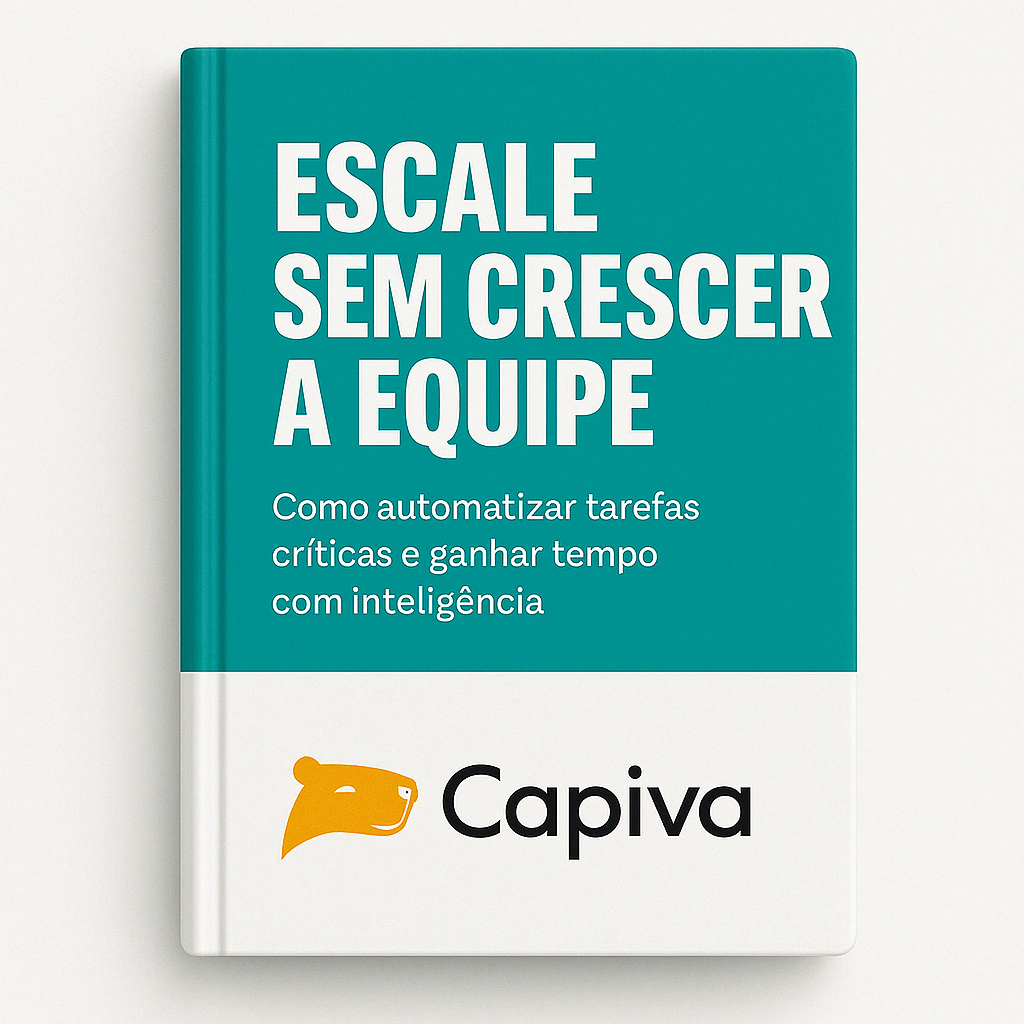
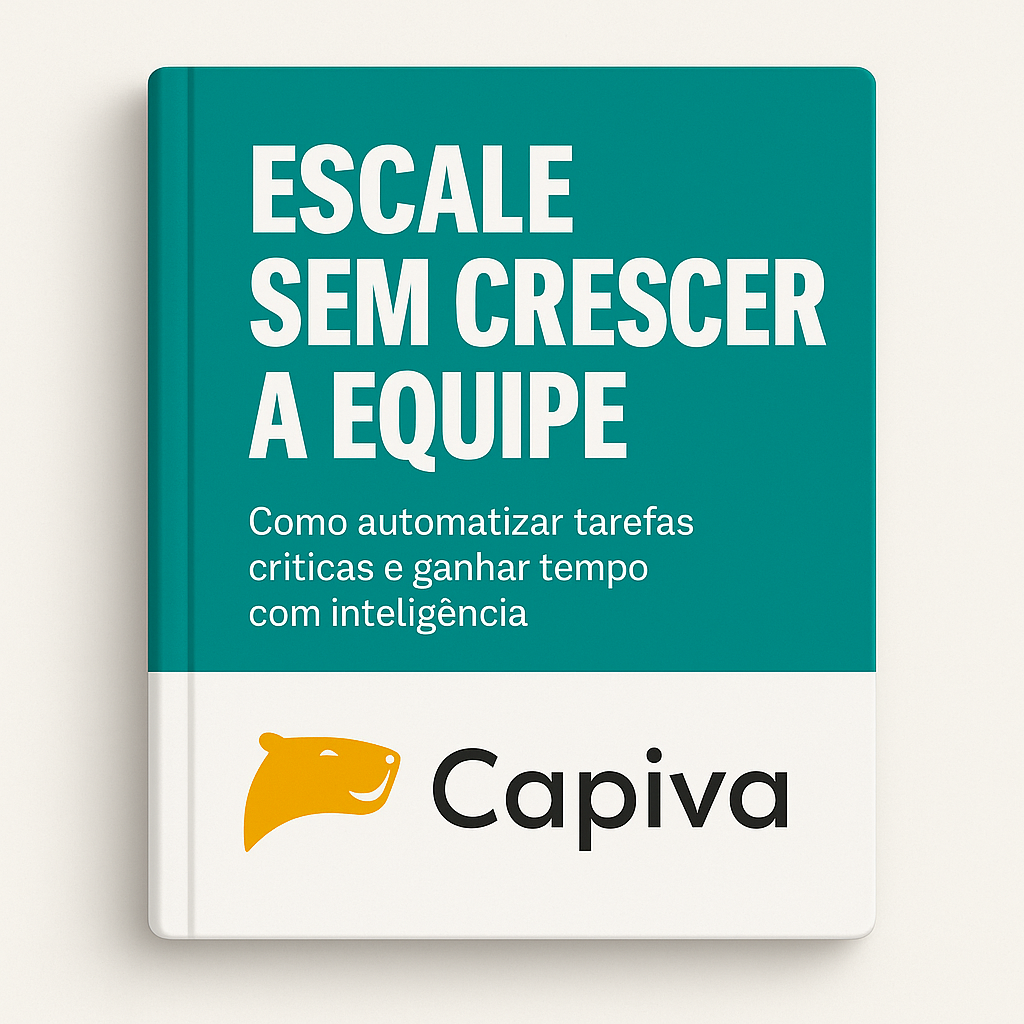
img do hero atualizada e otimizada

Changed region(s): [[0.0625, 0.0312, 0.875, 1.0]]

diff --git a/frontend/src/components/DownloadSection.tsx b/frontend/src/components/DownloadSection.tsx
@@ -1,0 +1,23 @@
+import { DownloadForm } from "@/components/DownloadForm";
+
+export function DownloadSection() {
+  return (
+    <section className="py-16 md:py-24">
+      <div className="container">
+        <div className="relative">
+          <div className="bg-white rounded-lg shadow-2xl p-6 md:p-8 border border-corporate-lightGray transform rotate-3 absolute -z-10 w-full h-full"></div>
+          <div className="bg-white rounded-lg shadow-2xl p-6 md:p-8 border border-corporate-lightGray">
+            <div className="mb-6">
+              <img
+                src="/ebook capiva.png"
+                alt="E-book de Automação Operacional"
+                className="w-full h-auto rounded"
+              />
+            </div>
+            <DownloadForm />
+          </div>
+        </div>
+      </div>
+    </section>
+  );
+}

diff --git a/frontend/src/components/HeroSection.tsx b/frontend/src/components/HeroSection.tsx
@@ -37,7 +37,7 @@ export function HeroSection() {
             <div className="bg-white rounded-lg shadow-2xl p-6 md:p-8 border border-corporate-lightGray">
               <div className="mb-6">
 <img
-  src="/ebook capiva.png"
+  src="/ebook capiva - hero.png"
   alt="E-book de Automação Operacional"
   className="w-full h-auto rounded"
 />
